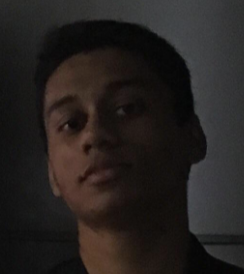
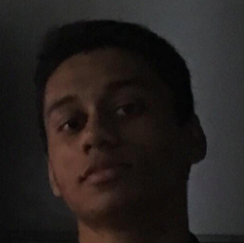
fixes: changed image formats, edited officer board pic so that it fits, edited some officer photos to be square, created sp21.html file

diff --git a/about/officers/sp21.html b/about/officers/sp21.html
@@ -1,0 +1,13 @@
+---
+layout: officers
+title: Spring 2021 Officers
+section_id: about
+
+custom_css:
+  - officers.css
+  - shared.css
+
+current-semester: sp21-officers
+previous-semester: fa20-officers
+next-semester: fa21-officers
+---
